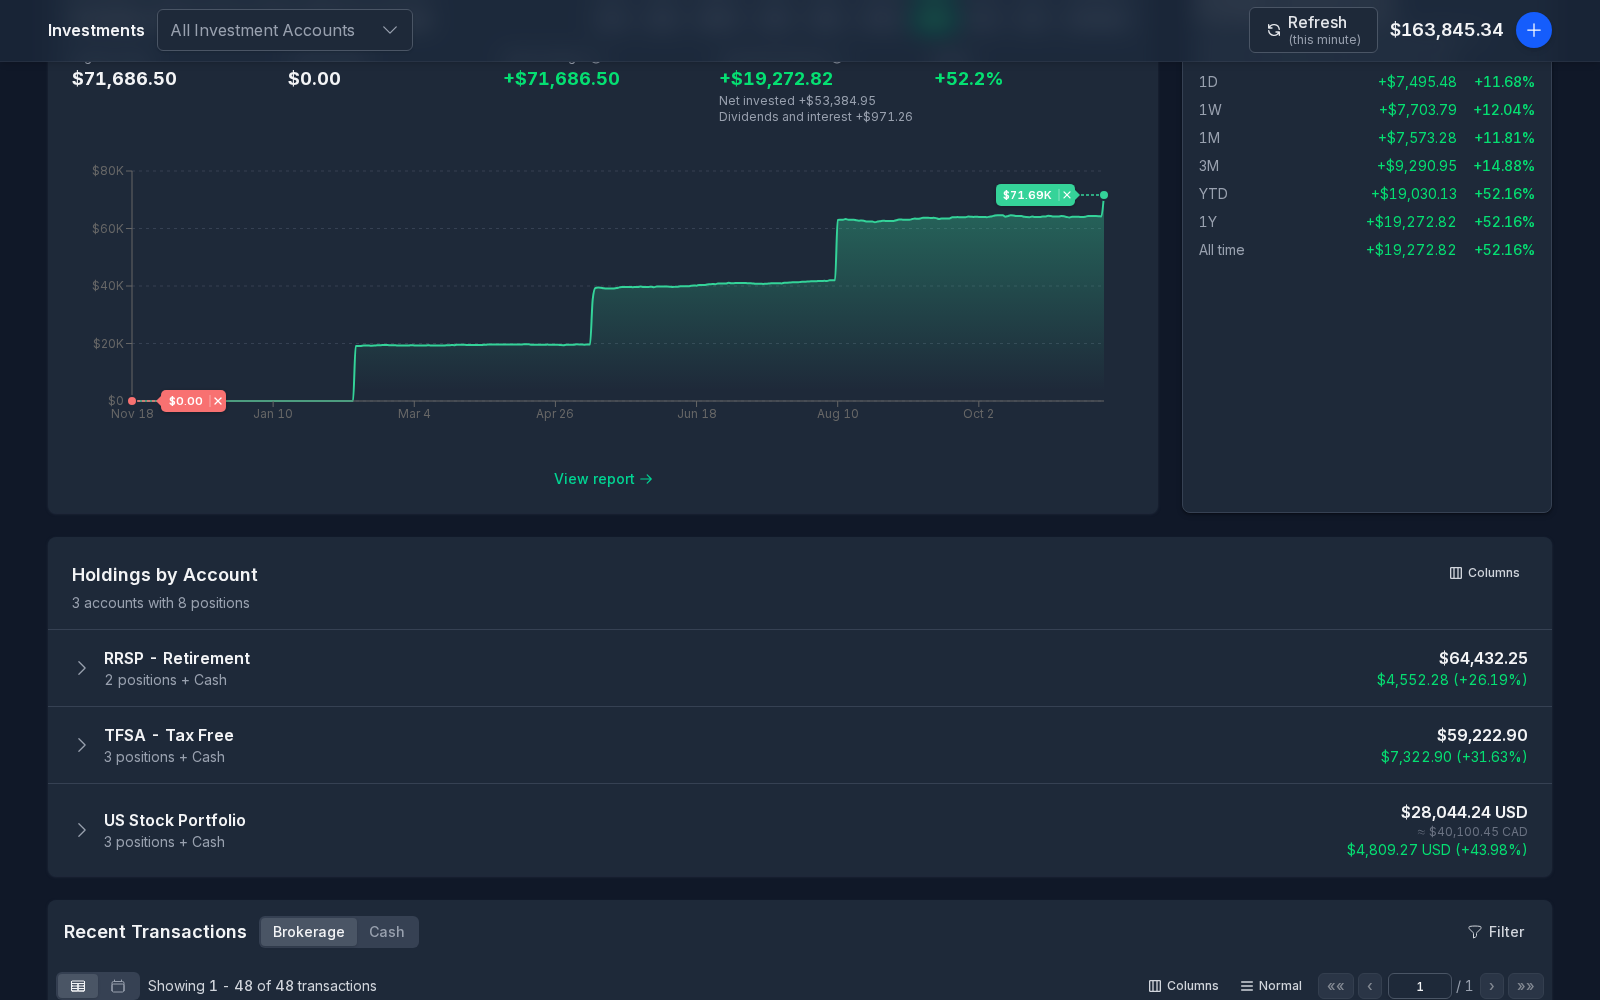
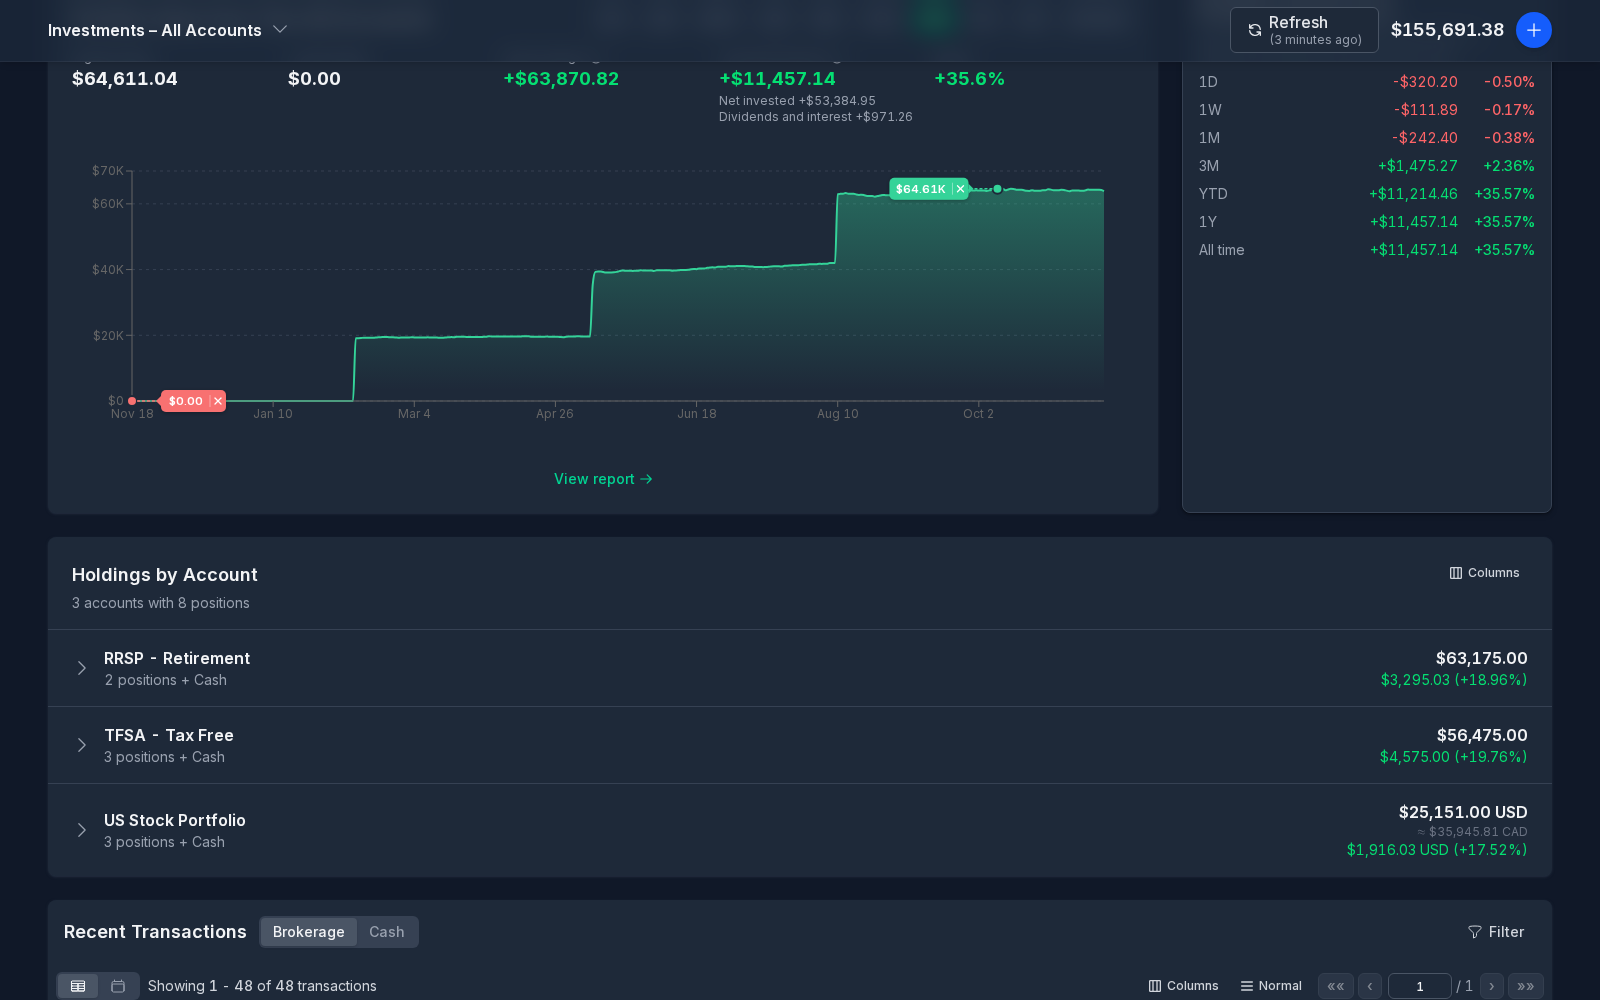
feat(investments): name the selected accounts in the pinned bar's title
The desktop pinned bar now reads "Investments - <the Portfolio Summary's
bracket label>" ("All Accounts", "RRSP, TFSA", "All but TFSA") with a down
chevron beside it that opens the same multi-account picker, instead of the
section name next to the full MultiSelect field.

MultiSelect gains a `caret` variant: a bare chevron trigger named by
`ariaLabel`, whose menu is at least 256px wide and kept inside the viewport.
The new "Choose accounts" label is translated for every locale, and the
Investments docs page and its pinned-bar screenshots are retaken.

diff --git a/frontend/src/app/investments/page.tsx b/frontend/src/app/investments/page.tsx
@@ -87,6 +87,7 @@ function InvestmentsContent() {
   const t = useTranslations('investments');
   const tc = useTranslations('common');
   const ta = useTranslations('accountDetail');
+  const tl = useTranslations('layout');
   const { formatCurrency } = useNumberFormat();
   // On a desktop, as soon as the account picker (the account names) has
   // scrolled behind the header, a bar carrying the same picker and Refresh
@@ -333,18 +334,24 @@ function InvestmentsContent() {
     />
   );
 
-  // One or more accounts, or all of them: the header's picker, and the same
-  // picker in the desktop's pinned bar, so both choose the same way.
+  // One or more accounts, or all of them. The header shows the full field;
+  // the desktop's pinned bar names the selection in its title and opens the
+  // same picker from a caret beside it, so both choose the same way.
+  const accountOptions = useMemo(
+    () =>
+      data.selectableAccounts.map((account: Account) => ({
+        value: account.id,
+        label: getAccountDisplayName(account),
+      })),
+    [data.selectableAccounts, getAccountDisplayName],
+  );
   const accountPicker = (
     <MultiSelect
       value={data.selectedAccountIds}
       onChange={data.handleAccountChange}
       placeholder={t('page.allInvestmentAccounts')}
       showSearch={false}
-      options={data.selectableAccounts.map((account: Account) => ({
-        value: account.id,
-        label: getAccountDisplayName(account),
-      }))}
+      options={accountOptions}
     />
   );
 
@@ -381,13 +388,29 @@ function InvestmentsContent() {
           {!hasMobileTabBar && (
             <FloatingPageBar visible={accountPickerScrolledAway} testId="investments-floating-bar">
               <div className="flex items-center justify-between gap-3 py-2">
-                {/* The section name and the header's own account picker, so
-                    the bar picks one or more accounts as the page does. */}
-                <div className="flex min-w-0 items-center gap-3">
-                  <p className="flex-shrink-0 text-base font-semibold text-gray-900 dark:text-gray-100">
-                    {t('page.title')}
+                {/* "Investments - <the Portfolio Summary's bracket label>", then
+                    a caret that opens the same multi-account picker. */}
+                <div className="flex min-w-0 items-center gap-1">
+                  <p
+                    data-testid="investments-floating-title"
+                    className="truncate text-base font-semibold text-gray-900 dark:text-gray-100"
+                  >
+                    {tl('pageHeader.collapsedTitleWithContext', {
+                      title: t('page.title'),
+                      context: accountFilterLabel,
+                    })}
                   </p>
-                  <div className="w-64 min-w-0">{accountPicker}</div>
+                  <div className="flex-shrink-0">
+                    <MultiSelect
+                      variant="caret"
+                      ariaLabel={t('page.chooseAccounts')}
+                      value={data.selectedAccountIds}
+                      onChange={data.handleAccountChange}
+                      placeholder={t('page.allInvestmentAccounts')}
+                      showSearch={false}
+                      options={accountOptions}
+                    />
+                  </div>
                 </div>
                 <div className="flex flex-shrink-0 items-center gap-3">
                   {refreshButton}

diff --git a/frontend/src/components/ui/MultiSelect.tsx b/frontend/src/components/ui/MultiSelect.tsx
@@ -43,7 +43,18 @@ interface MultiSelectProps {
    * measurement pass and tracks the real font.
    */
   sizeToLongestOption?: boolean;
+  /**
+   * `caret` draws the trigger as a bare chevron, for a control that sits
+   * beside text already naming the selection (the Investments pinned bar's
+   * "Investments - <accounts>"). `ariaLabel` names it. The menu is at least
+   * 16rem wide, since the caret is far narrower than its options, and is
+   * kept inside the viewport.
+   */
+  variant?: 'field' | 'caret';
 }
+
+/** The caret variant's menu: wide enough for an account name and its checkbox. */
+const CARET_MENU_MIN_WIDTH = 256;
 
 export function MultiSelect({
   label,
@@ -58,7 +69,9 @@ export function MultiSelect({
   onCreateNew,
   createNewLabel = 'Create new...',
   sizeToLongestOption = false,
+  variant = 'field',
 }: MultiSelectProps) {
+  const isCaret = variant === 'caret';
   const t = useTranslations('common');
   const [isOpen, setIsOpen] = useState(false);
   const [searchText, setSearchText] = useState('');
@@ -219,15 +232,19 @@ export function MultiSelect({
     // Prefer below; flip up only when below is cramped and above has more room.
     const openUp = spaceBelow < 240 && spaceAbove > spaceBelow;
     const maxHeight = Math.max(160, openUp ? spaceAbove : spaceBelow);
+    const width = isCaret ? Math.max(rect.width, CARET_MENU_MIN_WIDTH) : rect.width;
+    const left = isCaret
+      ? Math.max(margin, Math.min(rect.left, window.innerWidth - width - margin))
+      : rect.left;
     setDropdownPos({
-      left: rect.left,
-      width: rect.width,
+      left,
+      width,
       maxHeight,
       ...(openUp
         ? { bottom: window.innerHeight - rect.top + gap }
         : { top: rect.bottom + gap }),
     });
-  }, []);
+  }, [isCaret]);
 
   // Update position when opening
   useEffect(() => {
@@ -286,7 +303,7 @@ export function MultiSelect({
   }, [value, flatOptions, placeholder, t]);
 
   return (
-    <div ref={wrapperRef} className="w-full relative">
+    <div ref={wrapperRef} className={isCaret ? 'relative inline-block' : 'w-full relative'}>
       {label && (
         <label className="block text-sm font-medium text-gray-700 dark:text-gray-300 mb-1">
           {label}
@@ -294,6 +311,28 @@ export function MultiSelect({
       )}
 
       {/* Trigger button */}
+      {isCaret ? (
+        <button
+          ref={triggerRef}
+          type="button"
+          onClick={() => !disabled && setIsOpen(!isOpen)}
+          disabled={disabled}
+          aria-label={ariaLabel}
+          title={ariaLabel}
+          aria-expanded={isOpen}
+          className={cn(
+            'inline-flex items-center rounded p-1 text-gray-400 transition-colors motion-reduce:transition-none',
+            'hover:bg-gray-100 hover:text-gray-700 focus:outline-none focus-visible:ring-2 focus-visible:ring-blue-500',
+            'dark:hover:bg-gray-700 dark:hover:text-gray-200',
+            'disabled:cursor-not-allowed disabled:opacity-50',
+          )}
+        >
+          <ChevronDownIcon
+            className={cn('h-5 w-5 transition-transform', isOpen && 'rotate-180')}
+            aria-hidden="true"
+          />
+        </button>
+      ) : (
       <button
         ref={triggerRef}
         type="button"
@@ -354,6 +393,7 @@ export function MultiSelect({
           </div>
         )}
       </button>
+      )}
 
       {/* Dropdown (portal-rendered to avoid overflow clipping) */}
       {isOpen && dropdownPos && createPortal(

diff --git a/website/docs/investments.html b/website/docs/investments.html
@@ -29,7 +29,7 @@
 </blockquote>
 <h2 id="portfolio-view">Portfolio View<a class="hlink" href="#portfolio-view" aria-label="Link to this section">#</a></h2>
 <p>On a phone or tablet, once you scroll the page title away, the header bar reads <strong>Investments</strong> followed by the accounts in view, the same label the <strong>Portfolio Summary</strong> shows in brackets (for example <strong>Investments – RRSP, TFSA</strong> or <strong>Investments – All Accounts</strong>). The arrow beside it narrows the page to one account, with your favourites first, or goes back to <strong>All Investment Accounts</strong>. If the line does not fit, the header shows just the accounts.</p>
-<p>On a desktop, as soon as the account picker scrolls out of view, a bar pins across the top of the page with <strong>Investments</strong> and the same account picker, and slides away when you scroll back up. Tick one or more accounts in it, or clear it to go back to <strong>All Investment Accounts</strong>, without scrolling up. On the right are the <strong>Refresh</strong> button, the <strong>Total Portfolio Value</strong> (marked when it is a partial figure, as on the Portfolio Summary), and a <strong>+</strong> that starts an investment or a cash transaction.</p>
+<p>On a desktop, as soon as the account picker scrolls out of view, a bar pins across the top of the page and slides away when you scroll back up. It reads <strong>Investments</strong> followed by the accounts in view, the same label as the phone header (for example <strong>Investments – RRSP, TFSA</strong> or <strong>Investments – All but TFSA</strong>). The arrow beside it opens the account picker: tick one or more accounts, or clear it to go back to <strong>All Investment Accounts</strong>, without scrolling up. On the right are the <strong>Refresh</strong> button, the <strong>Total Portfolio Value</strong> (marked when it is a partial figure, as on the Portfolio Summary), and a <strong>+</strong> that starts an investment or a cash transaction.</p>
 <figure><img src="/docs/images/investments-floating-bar.png" alt="The accounts bar pinned to the top of the Investments page while scrolled down" width="1600" height="1000" loading="lazy" decoding="async" class="shot-dark"/><img src="/docs/images/investments-floating-bar.light.png" alt="The accounts bar pinned to the top of the Investments page while scrolled down" width="1600" height="1000" loading="lazy" decoding="async" class="shot-light"/><figcaption>The accounts bar pinned to the top of the Investments page while scrolled down</figcaption></figure>
 <h3 id="portfolio-summary">Portfolio Summary<a class="hlink" href="#portfolio-summary" aria-label="Link to this section">#</a></h3>
 <p>The <strong>Portfolio Summary</strong> card shows the <strong>Total Portfolio Value</strong> (holdings plus cash), then two groups of figures. Hover over any figure for an explanation of how it is worked out.</p>

diff --git a/frontend/src/app/investments/page.test.tsx b/frontend/src/app/investments/page.test.tsx
@@ -244,8 +244,8 @@ vi.mock('@/components/ui/UnsavedChangesDialog', () => ({
 
 vi.mock('@/components/ui/MultiSelect', () => ({
   // An option toggles in and out of the selection, as the real one does.
-  MultiSelect: ({ options, placeholder, value = [], onChange }: any) => (
-    <div data-testid="multi-select">
+  MultiSelect: ({ options, placeholder, value = [], onChange, variant, ariaLabel }: any) => (
+    <div data-testid={variant === 'caret' ? 'multi-select-caret' : 'multi-select'} aria-label={ariaLabel}>
       <span>{placeholder}</span>
       {options?.map((opt: any) => (
         <button
@@ -1740,20 +1740,25 @@ describe('InvestmentsPage', () => {
       vi.unstubAllGlobals();
     });
 
-    it('pins the section name, the account picker and refresh to the top once the picker scrolls away', async () => {
+    it('pins "Investments - <accounts>", an account caret and refresh to the top once the picker scrolls away', async () => {
       await renderPage();
       const floating = screen.getByTestId('investments-floating-bar');
       expect(floating).toHaveAttribute('aria-hidden', 'true');
 
       headerScrolled?.(true);
       expect(floating).toHaveAttribute('aria-hidden', 'false');
-      expect(floating).toHaveTextContent('Investments');
-      // The header's own multi-select, not a single-pick caret, beside Refresh.
+      // The title names the selection as the Portfolio Summary does.
+      expect(within(floating).getByTestId('investments-floating-title')).toHaveTextContent(
+        'Investments – All Accounts',
+      );
+      // A multi-account caret, not the full field and not a single-pick switcher.
+      expect(within(floating).queryByTestId('multi-select')).not.toBeInTheDocument();
       expect(
         within(floating).queryByRole('button', { name: 'Switch to another account' }),
       ).not.toBeInTheDocument();
-      expect(within(floating).getByTestId('multi-select')).toHaveTextContent(
-        'All Investment Accounts',
+      expect(within(floating).getByTestId('multi-select-caret')).toHaveAttribute(
+        'aria-label',
+        'Choose accounts',
       );
       expect(within(floating).getByRole('button', { name: 'Refresh' })).toBeInTheDocument();
 
@@ -1768,6 +1773,12 @@ describe('InvestmentsPage', () => {
 
       await act(async () => {
         fireEvent.click(within(floating).getByTestId('option-brok-1'));
+      });
+      // The title follows the selection.
+      await waitFor(() => {
+        expect(within(floating).getByTestId('investments-floating-title')).toHaveTextContent(
+          'Investments – RRSP',
+        );
       });
       await act(async () => {
         fireEvent.click(within(floating).getByTestId('option-brok-2'));

diff --git a/frontend/src/components/ui/MultiSelect.test.tsx b/frontend/src/components/ui/MultiSelect.test.tsx
@@ -688,4 +688,57 @@ describe('MultiSelect', () => {
       }
     });
   });
+
+  describe('caret variant', () => {
+    it('draws only a named chevron, and opens the same checklist', () => {
+      render(
+        <MultiSelect
+          variant="caret"
+          ariaLabel="Choose accounts"
+          options={flatOptions}
+          value={['a']}
+          onChange={onChange}
+          placeholder="All"
+          showSearch={false}
+        />,
+      );
+      const caret = screen.getByRole('button', { name: 'Choose accounts' });
+      // The selection is named by the text beside it, not by the caret.
+      expect(caret).not.toHaveTextContent('Alpha');
+      expect(caret).toHaveAttribute('aria-expanded', 'false');
+
+      fireEvent.click(caret);
+      expect(caret).toHaveAttribute('aria-expanded', 'true');
+      fireEvent.click(screen.getByLabelText('Beta'));
+      expect(onChange).toHaveBeenCalledWith(['a', 'b']);
+    });
+
+    it('gives the menu a usable width and keeps it inside the viewport', () => {
+      render(
+        <MultiSelect
+          variant="caret"
+          ariaLabel="Choose accounts"
+          options={flatOptions}
+          value={[]}
+          onChange={onChange}
+        />,
+      );
+      const caret = screen.getByRole('button', { name: 'Choose accounts' });
+      vi.spyOn(caret, 'getBoundingClientRect').mockReturnValue({
+        left: window.innerWidth - 30,
+        right: window.innerWidth - 2,
+        top: 10,
+        bottom: 38,
+        width: 28,
+        height: 28,
+        x: window.innerWidth - 30,
+        y: 10,
+        toJSON: () => ({}),
+      });
+      fireEvent.click(caret);
+      const menu = screen.getByText('Alpha').closest('.fixed') as HTMLElement;
+      expect(menu.style.width).toBe('256px');
+      expect(menu.style.left).toBe(`${window.innerWidth - 256 - 8}px`);
+    });
+  });
 });

diff --git a/.trail/learnings/2026-11-18-investments-pinned-bar-names-the-selected-ken.md b/.trail/learnings/2026-11-18-investments-pinned-bar-names-the-selected-ken.md
@@ -1,0 +1,25 @@
+---
+title: Investments pinned bar names the selected accounts in its title and opens the multi-account picker from a caret
+author: Ken
+date: 2026-11-18
+branch: feat/investments-bar-account-label
+cost: { minutes: 3, tokens: 79903 }
+id: l-19f39162
+scope: repo
+status: active
+src: agent
+touches:
+  - frontend/src/components/ui/MultiSelect.tsx
+  - frontend/src/app/investments/page.tsx
+---
+
+## Decided
+- The desktop pinned bar on Investments reads "Investments – <the Portfolio Summary bracket label>" ("All Accounts", "CA-RRSP, US-RRSP", "All but TFSA"), with a down chevron beside it that opens the same multi-account MultiSelect. The maintainer asked for this, and it replaces the #2277 layout ("Investments" plus the full MultiSelect field). It still picks many accounts. The phone header's single-pick caret is unchanged.
+- The chevron is a new `variant="caret"` on MultiSelect, not EntitySwitcher, because EntitySwitcher picks only one. It is styled like EntitySwitcher's caret. Its menu is at least 256px wide (the caret is ~28px) and is clamped inside the viewport.
+- The title text goes through `layout.pageHeader.collapsedTitleWithContext`, the catalog entry the phone header uses, so the two lines read the same.
+
+## Watch out
+- The page test's MultiSelect mock gives the caret variant the testid `multi-select-caret`. The floating-bar IntersectionObserver stub finds the header picker by `[data-testid="multi-select"]`, so the two must not share a testid.
+- The docs picture images/investments-floating-bar.png still shows the old bar until the docs screenshots are captured again.
+
+In the code: frontend/src/components/ui/MultiSelect.tsx (`variant`, `CARET_MENU_MIN_WIDTH`), `accountOptions` and `investments-floating-title` in frontend/src/app/investments/page.tsx, investments `page.chooseAccounts` in every locale.

diff --git a/website/docs/investments.md b/website/docs/investments.md
@@ -46,7 +46,7 @@ When you create an investment account, both components are created automatically
 
 On a phone or tablet, once you scroll the page title away, the header bar reads **Investments** followed by the accounts in view, the same label the **Portfolio Summary** shows in brackets (for example **Investments – RRSP, TFSA** or **Investments – All Accounts**). The arrow beside it narrows the page to one account, with your favourites first, or goes back to **All Investment Accounts**. If the line does not fit, the header shows just the accounts.
 
-On a desktop, as soon as the account picker scrolls out of view, a bar pins across the top of the page with **Investments** and the same account picker, and slides away when you scroll back up. Tick one or more accounts in it, or clear it to go back to **All Investment Accounts**, without scrolling up. On the right are the **Refresh** button, the **Total Portfolio Value** (marked when it is a partial figure, as on the Portfolio Summary), and a **+** that starts an investment or a cash transaction.
+On a desktop, as soon as the account picker scrolls out of view, a bar pins across the top of the page and slides away when you scroll back up. It reads **Investments** followed by the accounts in view, the same label as the phone header (for example **Investments – RRSP, TFSA** or **Investments – All but TFSA**). The arrow beside it opens the account picker: tick one or more accounts, or clear it to go back to **All Investment Accounts**, without scrolling up. On the right are the **Refresh** button, the **Total Portfolio Value** (marked when it is a partial figure, as on the Portfolio Summary), and a **+** that starts an investment or a cash transaction.
 
 ![The accounts bar pinned to the top of the Investments page while scrolled down](images/investments-floating-bar.png)
 
